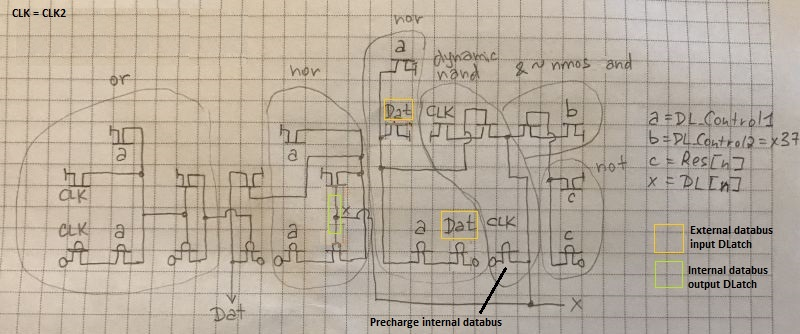
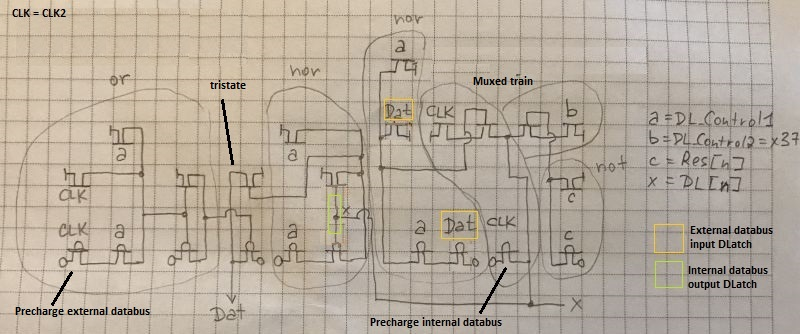
redone DataLatch for logisim

diff --git a/datalatch.md b/datalatch.md
@@ -20,8 +20,6 @@ DataLatch consists of 8 such chunks:
 
 ![module1_tran](/imgstore/modules/module1_tran.jpg)
 
-![DataLatch](/logisim/DataLatch.png)
-
 |Port|Dir|Description|
 |---|---|---|
 |a|input|DL_Control1. 1: Bus disable|
@@ -48,3 +46,18 @@ Internal data bus driven (internal->external):
 |---|---|
 
 In all cases, the internal data bus is precharged (DL=0xff) during CLK2=0.
+
+## Logisim
+
+The circuit is very low-level, with bidirectional signals and tristates made as FETs, so it is difficult to make an identical circuit in Logisim.
+
+The closest approximation is following:
+
+![DataLatch](/logisim/DataLatch.png)
+
+- For the external data bus, the tristate is on the output BEFORE precharging; the value from the internal data bus is stored on the transparent DLatch (`int_to_ext`)
+- The multiplexing of the external data bus and the ALU result can be thought of as a locomotive of MUXes:
+ 	- The leading mux selects between the connection of the internal data bus and the ALU result (x37 = 1)
+ 	- The next mux precharges the internal data bus if the ALU result is not required (since `Res` is always driven signal).
+ 	- The closing mux acts as tristate and disconnects the external data bus when Test1 = 1
+- The value from the external data bus is stored on the transparent DLatch (`ext_to_int`).
